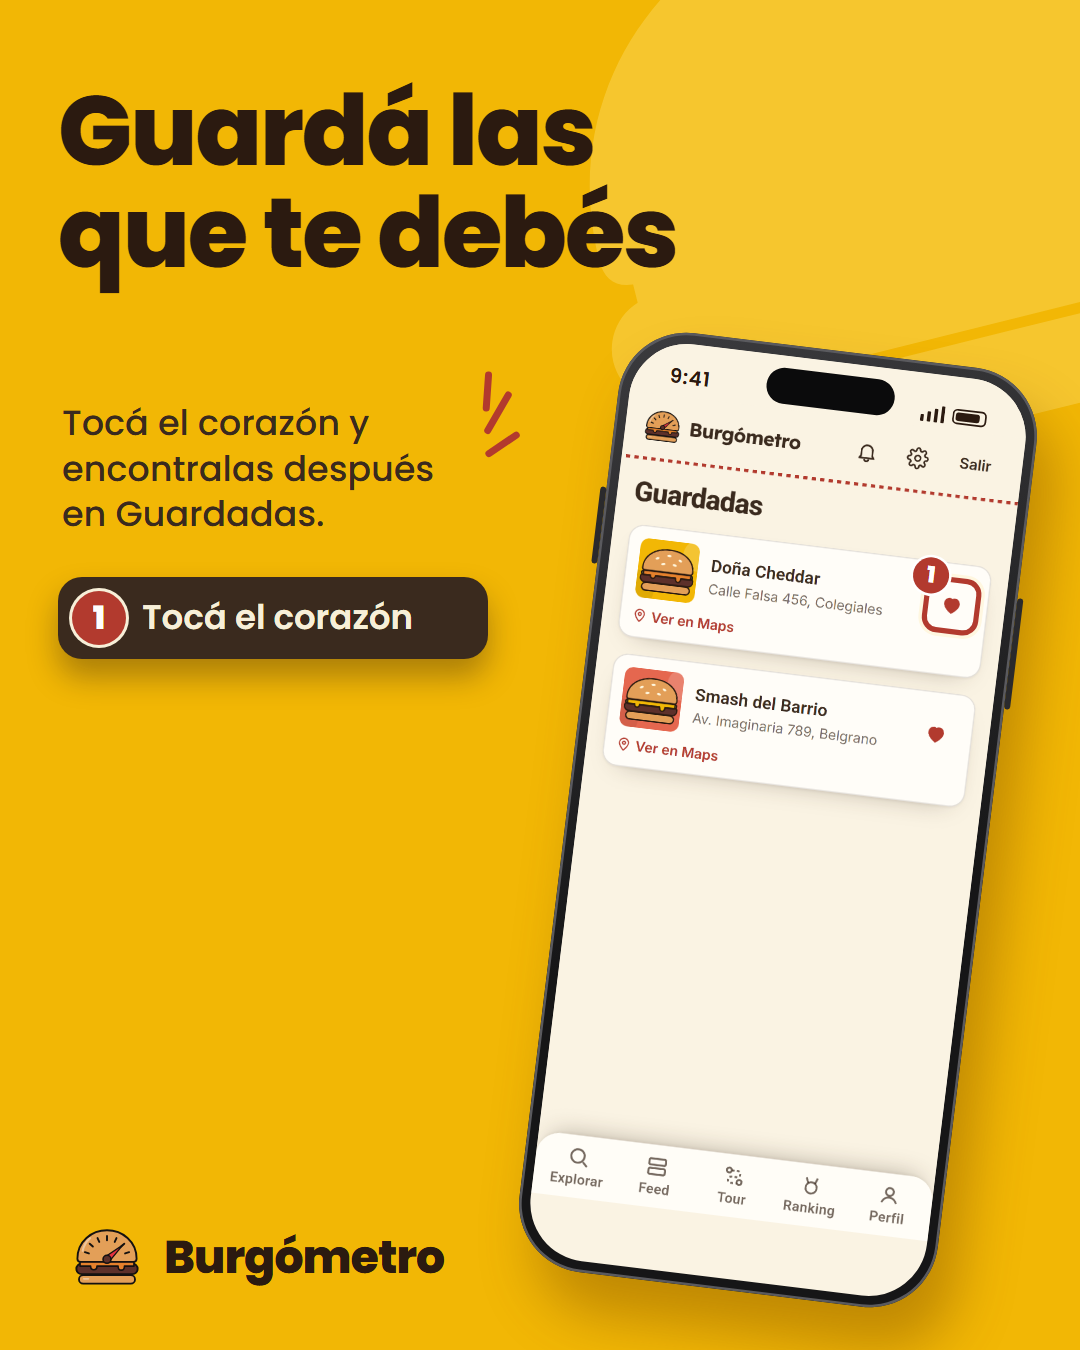
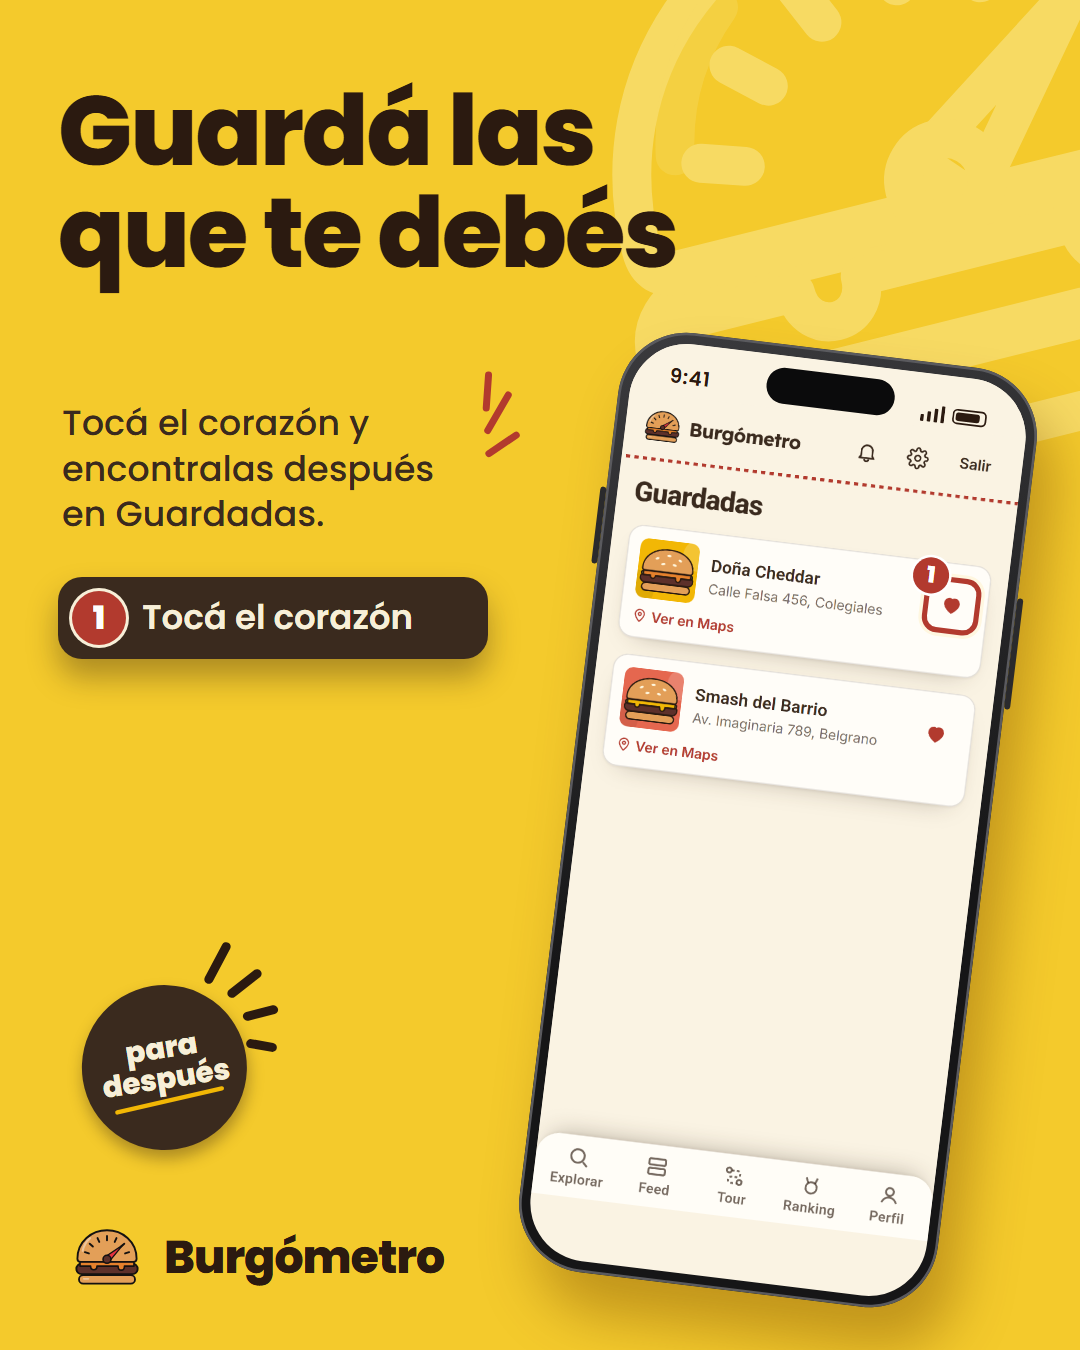
Post de Instagram: fondo, isotipo de contorno y sello de la plantilla en las láminas

diff --git a/docs/post-ig/README.md b/docs/post-ig/README.md
@@ -1,6 +1,6 @@
 # Carrusel de Instagram (#272)
 
-Diez láminas en dos formatos: `laminas/` en 4:5 (1080×1350, el del carrusel del feed) y `laminas-9x16/` en 9:16 (1080×1920, para historias, con lo importante dentro de la zona segura: sin nada clave en los ~250 px de arriba y abajo). El celu se ve entero en las dos con las funciones principales de Burgómetro. Estilo C
+Diez láminas en dos formatos: `laminas/` en 4:5 (1080×1350, el del carrusel del feed) y `laminas-9x16/` en 9:16 (1080×1920, para historias, con lo importante dentro de la zona segura: sin nada clave en los ~250 px de arriba y abajo). El celu se ve entero en las dos con las funciones principales de Burgómetro. Estilo C (fondo amarillo claro, isotipo de contorno, sello con rayitas; el sello va en todas menos en la 3b y la 9, donde no entra)
 (amarillo tipográfico), con la plantilla que armó Juan.
 
 | Lámina | Archivo | Qué muestra |
